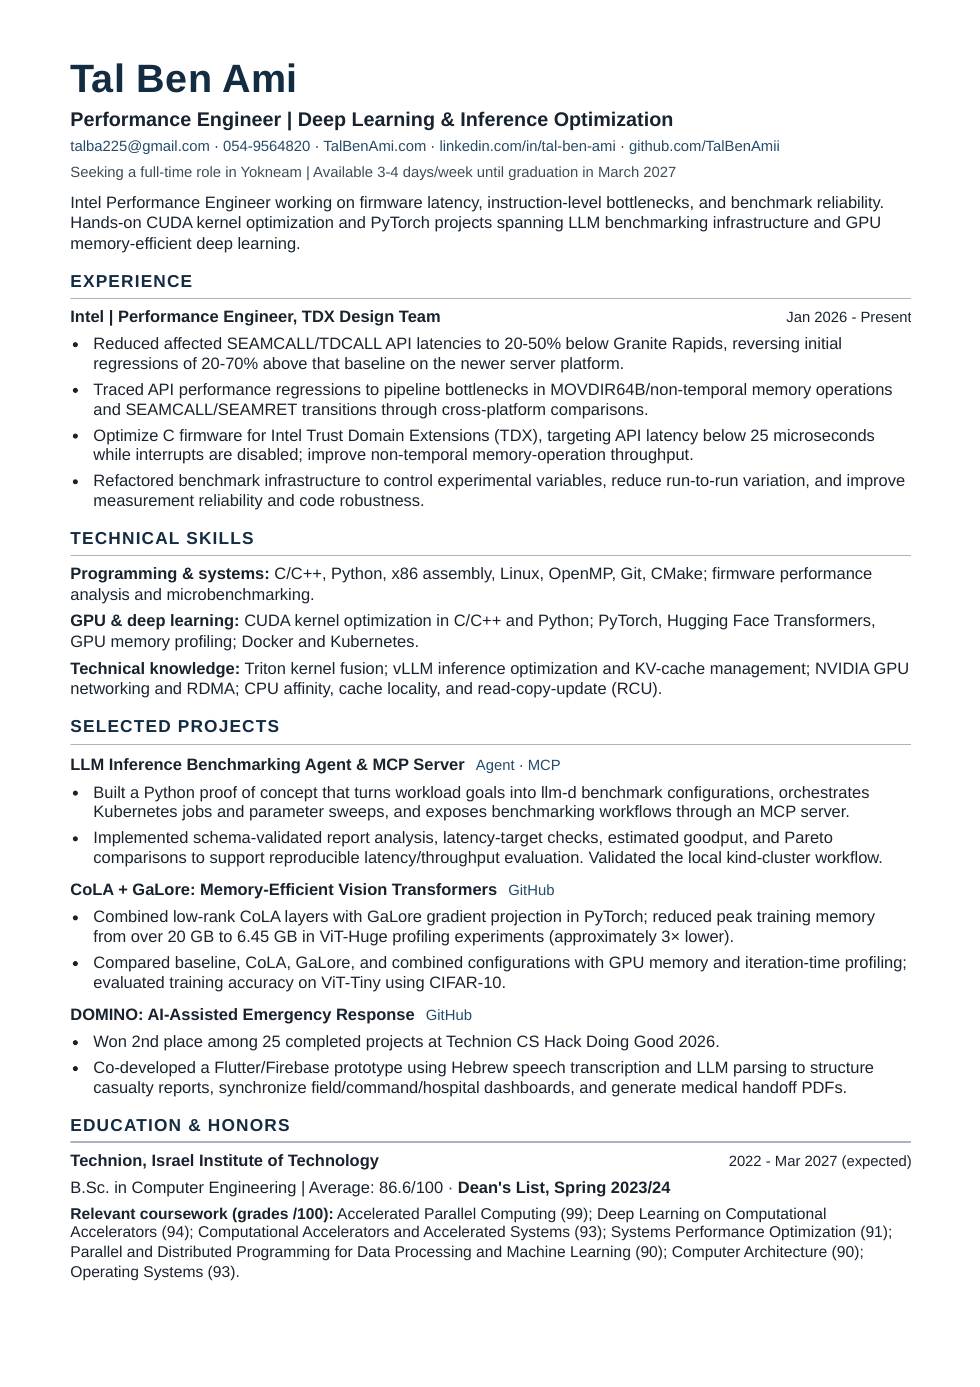
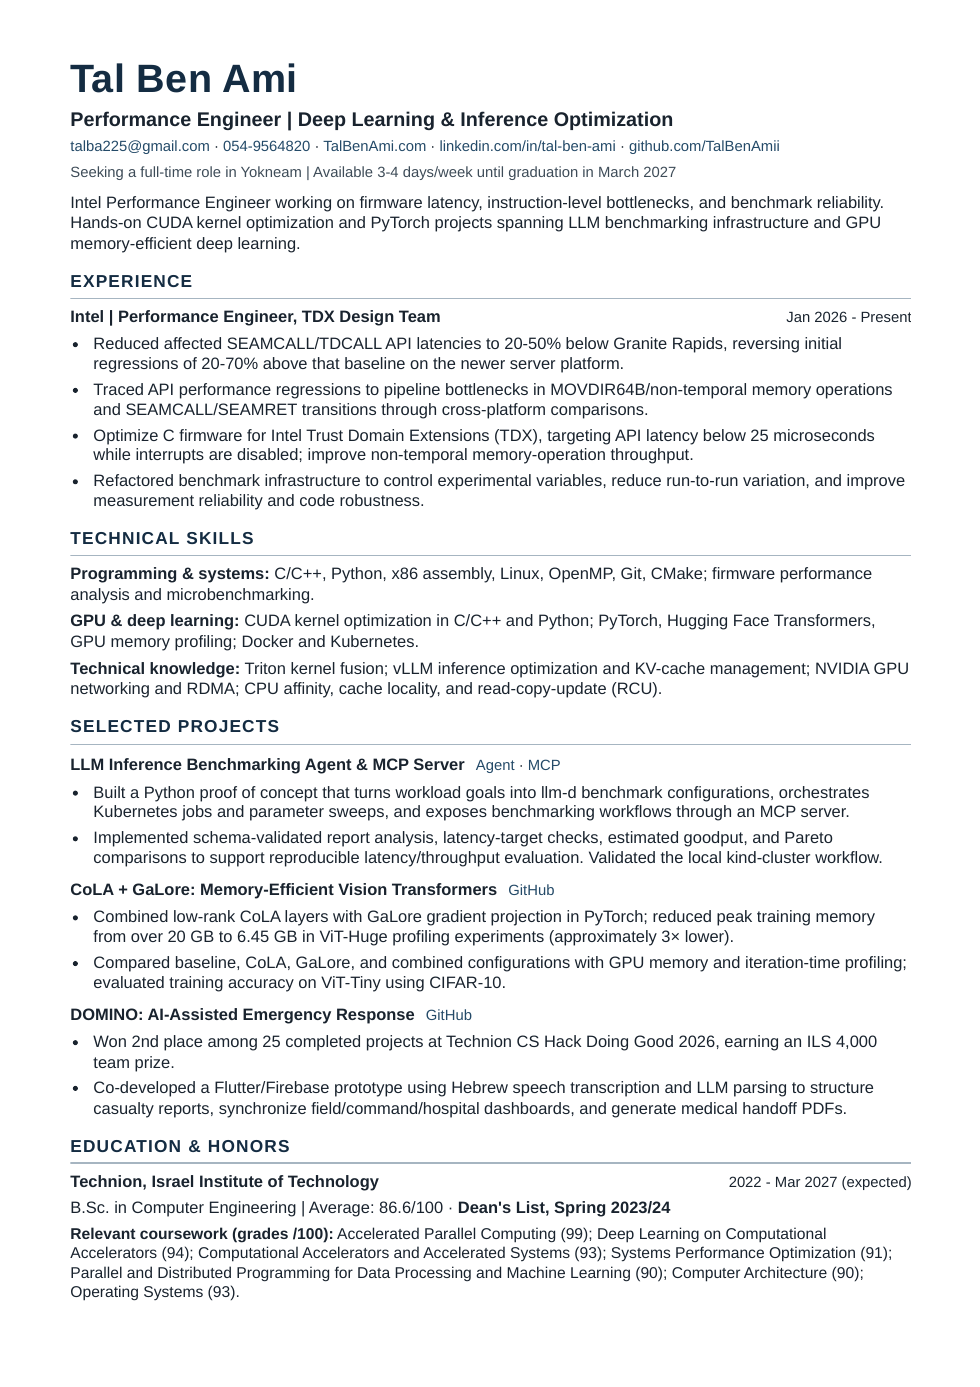
Include DOMINO hackathon team prize in CV

Changed region(s): [[0.0612, 0.7441, 0.9184, 0.9301]]

diff --git a/index.html b/index.html
@@ -91,15 +91,15 @@
             <p class="section-note">Here's my detailed resume. You can view it below or download the PDF.</p>
 
             <div class="resume-container frame">
-                <iframe src="resume.pdf?v=b72dee72682b" title="Tal Ben Ami's Resume" class="resume-iframe">
-                    <p>Your browser does not support embedded PDFs. Please <a href="resume.pdf?v=b72dee72682b" download>download the
+                <iframe src="resume.pdf?v=042a6aeead8f" title="Tal Ben Ami's Resume" class="resume-iframe">
+                    <p>Your browser does not support embedded PDFs. Please <a href="resume.pdf?v=042a6aeead8f" download>download the
                             PDF</a> to view it.</p>
                 </iframe>
-                <a href="resume.pdf?v=b72dee72682b" class="resume-preview" target="_blank" rel="noopener noreferrer">
-                    <img src="resume-preview.png?v=b72dee72682b" alt="First page of Tal Ben Ami's resume">
+                <a href="resume.pdf?v=042a6aeead8f" class="resume-preview" target="_blank" rel="noopener noreferrer">
+                    <img src="resume-preview.png?v=042a6aeead8f" alt="First page of Tal Ben Ami's resume">
                 </a>
             </div>
-            <a href="resume.pdf?v=b72dee72682b" download="Tal-Ben-Ami-Resume.pdf" class="download-button">Download resume (PDF)</a>
+            <a href="resume.pdf?v=042a6aeead8f" download="Tal-Ben-Ami-Resume.pdf" class="download-button">Download resume (PDF)</a>
         </section>
     </main>
 
@@ -173,7 +173,7 @@
             whoami: () => 'Tal Ben Ami, Computer Engineering BSc student',
             ls: () => 'about  resume.pdf  github  linkedin',
             email: () => 'talba225@gmail.com',
-            'cat resume': () => { window.open('resume.pdf?v=b72dee72682b', '_blank'); return 'opening resume.pdf'; },
+            'cat resume': () => { window.open('resume.pdf?v=042a6aeead8f', '_blank'); return 'opening resume.pdf'; },
             'open github': () => { window.open('https://github.com/TalBenAmii', '_blank'); return 'opening github.com/TalBenAmii'; },
             'open linkedin': () => { window.open('https://www.linkedin.com/in/tal-ben-ami/', '_blank'); return 'opening linkedin.com/in/tal-ben-ami'; },
         };
